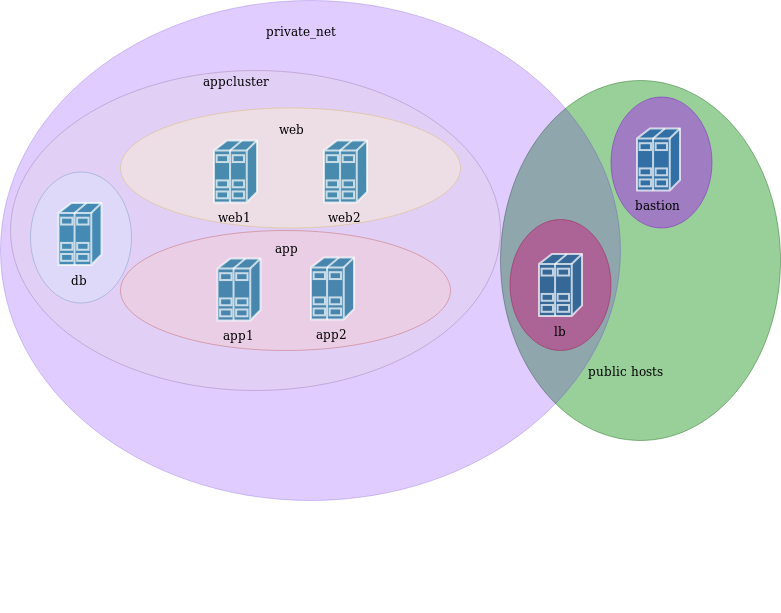
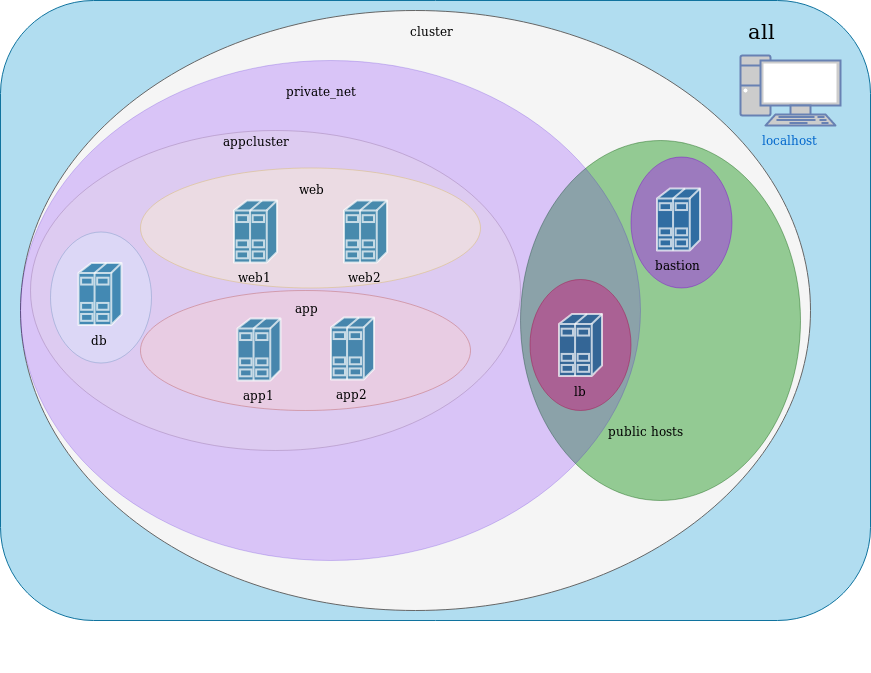
update venn diagram; remove unneeded variables from provision

diff --git a/slides/content.md b/slides/content.md
@@ -41,16 +41,14 @@ Presented by [Travis Holton](#) <!-- .element: class="small-text"  -->
 * YAML
 
 
-#### Source material
-- Keating, Jesse. [*Mastering Ansible*](https://www.paktpub.com/au/networking-and-servers/mastering-ansbile). Packt, 2015
-- Hochstein, Lorin et al. *Ansible Up & Running 2nd Edition*.
-  O'Reilly, 2017
-- [https://docs.ansible.com/ansible/latest/user_guide/playbooks_delegation.html](https://docs.ansible.com/ansible/latest/user_guide/playbooks_delegation.html)
-- Based somewhat on my own experience
+#### Goals of this workshop
+* Examine different types of cluster deployment
+* See how we can use built-in features of Ansible to manage deploying and
+  upgrading
+* Provide tools that can be used in any build or CI/CD pipeline
 
 
-
-### Course Outline
+#### Course Outline
 * [Setup](#setup)
 * [Cloud Signup](#cloud-provider-account)
 * [Review basics](#ansible-basics)
@@ -59,7 +57,15 @@ Presented by [Travis Holton](#) <!-- .element: class="small-text"  -->
 * [Upgrade Strategies](#upgrade-strategies)
 * [In-place rolling upgrade](#in-place-rolling-upgrade)
 * [Blue Green](#blue-green-deployments)
-* [closing](#the-end)
+* [Closing](#the-end)
+
+
+#### Source material
+- Keating, Jesse. [*Mastering Ansible*](https://www.paktpub.com/au/networking-and-servers/mastering-ansbile). Packt, 2015
+- Hochstein, Lorin et al. *Ansible Up & Running 2nd Edition*.
+  O'Reilly, 2017
+- [https://docs.ansible.com/ansible/latest/user_guide/playbooks_delegation.html](https://docs.ansible.com/ansible/latest/user_guide/playbooks_delegation.html)
+- Based somewhat on my own experience
 
 
 
@@ -146,7 +152,7 @@ particpants want to connect via openstacksdk
 
 
 ### Ansible Basics
-##### (Just for review)
+##### (quick review)
 
 
 #### Terminology
@@ -273,7 +279,6 @@ particpants want to connect via openstacksdk
   <!-- .element: style="font-size:11pt;"  -->
 
 
-
 #### Project Layout
 ```
 ansible
@@ -308,6 +313,7 @@ ansible
 <!-- .element: style="font-size:11pt;"  -->
 
 
+
 ### Provisioning Hosts
 
 
@@ -328,20 +334,26 @@ ansible
 * <!-- .element: class="fragment" data-fragment-index="2" -->DB receives traffic from app hosts on 5432
 * <!-- .element: class="fragment" data-fragment-index="3" -->SSH traffic
   - only bastion reachable from outside
-  - all other hosts only from bastion
+  - all other hosts only SSH from bastion
 
 
-#### Host Inventory
+#### Inventory Host Grouping <!-- .slide: class="image-slide" -->
 * Architecture defined using Ansible _groups_
 
 ```shell
 ansible/inventory/cloud-hosts
 ```
+![cotd-venn](img/cotd-venn.png "COTD venn diagram") <!-- .element: width="70%"  -->
+
+
+#### Host Inventory
+* Inventory and groups fundamental to deploying and configuring
+
+<pre><code data-trim data-noescape>
+hosts: <mark>web</mark>
+</code></pre>
 <div style="float:left;font-size:12pt;" width="50%"><pre ><code data-trim data-noescape>
 localhost ansible_connection=local ansible_python_interpreter="/usr/bin/env python"
-
-[controller]
-localhost
 
 [appcluster]
 pycon-web[1:2]
@@ -354,8 +366,8 @@ pycon-lb
 [bastion]
 pycon-bastion
 
-[web]
-pycon-web[1:2]
+<mark>[web]</mark>
+<mark>pycon-web[1:2]</mark>
 
 [db]
 pycon-db
@@ -370,6 +382,11 @@ loadbalancer
 [private_net:children]
 appcluster
 loadbalancer
+
+[cluster:children]
+bastion
+loadbalancer
+appcluster
 </code></pre></div>  
 
 <div style="float:left;font-size:13pt;" ><pre ><code data-trim data-noescape>
@@ -384,29 +401,28 @@ ansible
 │   ├── loadbalancer/
 │   ├── private_net.yml
 │   ├── publichosts.yml
-│   └── web.yml                      
+│   <mark>└── web.yml</mark>                      
 </code></pre></div>  
-
-
-#### Inventory Host Grouping <!-- .slide: class="image-slide" -->
-![cotd-venn](img/cotd-venn.png "COTD venn diagram")
 
 
 #### The `provision-hosts.yml` playbook
 * <!-- .element: class="fragment" data-fragment-index="0" -->Tasks in the
   first play are executed on local machine
+* <!-- .element: class="fragment" data-fragment-index="1" -->We need to tell Ansible names of hosts we want to create
    <pre style="font-size:9pt;"><code data-trim data-noescape>
    name:  Provision a set of hosts in Catalyst Cloud
    hosts: <mark>localhost</mark>
    gather_facts: false
    vars:
-     <mark class="fragment" data-fragment-index="1">host_set: "{{ groups.cluster }}"</mark>
-     <mark class="fragment" data-fragment-index="2">security_groups: "{{ host_set | map('extract', hostvars, 'security_groups') | sum(start=[]) | list | unique }}"</mark>
-     <mark class="fragment" data-fragment-index="2">security_group_names: "{{ security_groups | map(attribute='group') | list | unique }}"</mark>
+     # ADD host_set and security groups
+     host_set: "{{ groups.cluster }}"
+     security_groups: "{{ host_set | map('extract', hostvars, 'security_groups') | sum(start=[]) | list | unique }}"
+     security_group_names: "{{ security_groups | map(attribute='group') | list | unique }}"
    tasks:
 </code></pre>
-* <!-- .element: class="fragment" data-fragment-index="1" -->We need to pass Ansible set of hosts we are creating
-* <!-- .element: class="fragment" data-fragment-index="2" -->Combine security groups for each host
+* <!-- .element: class="fragment" data-fragment-index="2" -->Extract security
+  groups for specific hosts from inventory
+* <!-- .element: class="fragment" data-fragment-index="3" -->Add the 3 variables under the comment to the _vars_ dictionary
 
 
 #### Cloud Modules
